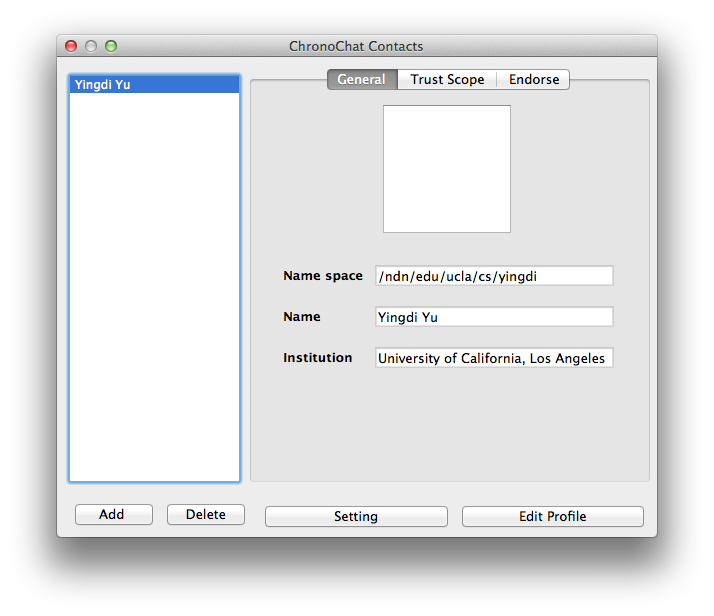
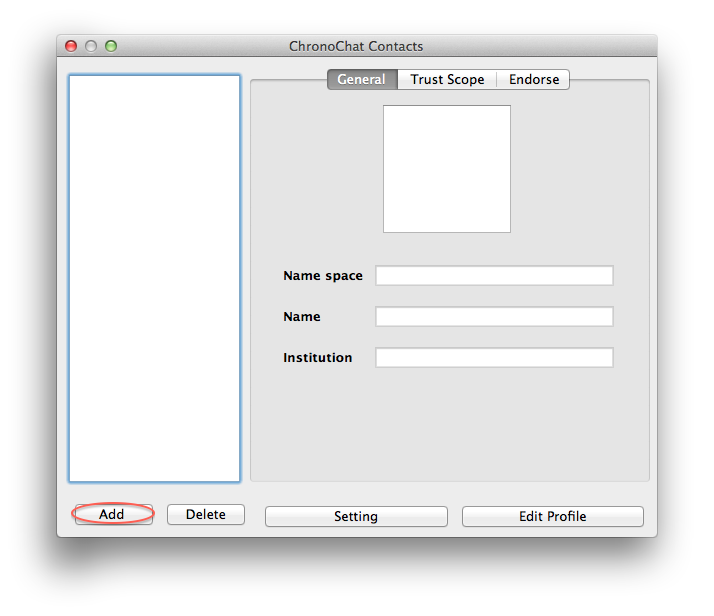
tmp

diff --git a/doc/index.rst b/doc/index.rst
@@ -28,6 +28,7 @@ You can change your identity and setting there.
 
 The default setting is derived from the key and certificate you installed in step 0. 
 
+.. image:: https://raw.github.com/bruinfish/ChronoChat-V2/master/doc/img/chronochat-2.png
 
 The left part of the panel is your contact list. 
 One must be one of your contacts if she/he wants to have a chat with you.
@@ -41,6 +42,6 @@ You should see a contact browsing dialog which collects all the existing contact
 You can select the contact you want to add, and then click the **Add** button.
 Then you should see that the selected contact has been added into your contact list.
 
-.. image:: https://raw.github.com/bruinfish/ChronoChat-V2/master/doc/img/chronochat-2.png
+.. image:: https://raw.github.com/bruinfish/ChronoChat-V2/master/doc/img/chronochat-3.png
 
 
